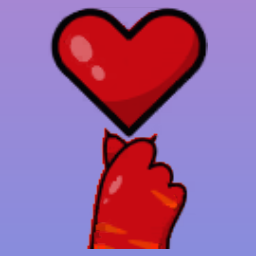
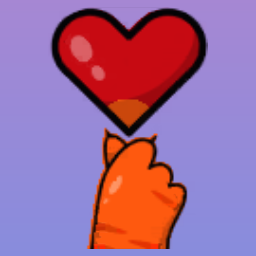
Tutorial Two Complete

Changed region(s): [[0.3438, 0.5, 0.7188, 1.0], [0.4062, 0.375, 0.5938, 0.5]]

diff --git a/Assets/CoreStates/Scripts/StateManager.cs b/Assets/CoreStates/Scripts/StateManager.cs
@@ -7,19 +7,21 @@ namespace Core.States
     public class StateManager : MonoBehaviour
     {
         [SerializeField] SOEvents ChangeBackgroundEvent;
-        [SerializeField] SOIntegerEvents ChangeStateEvent, DeActiveStateEvent;
+        [SerializeField] SOIntegerEvents ChangeStateEvent, DeactiveStateEvent, DestroyStateEvent;
         [SerializeField] GameState[] AllStates;
         [SerializeField] SOInterger MainMenuStateIndex, GamePlayStateIndex, LeveCompleteStateIndex;
 
         private void OnEnable()
         {
             ChangeStateEvent.EventHandler += ChangeState;
-            DeActiveStateEvent.EventHandler += DeActiveState;
+            DeactiveStateEvent.EventHandler += DeactiveState;
+            DestroyStateEvent.EventHandler += DestroyState;
         }
         private void OnDisable()
         {
             ChangeStateEvent.EventHandler -= ChangeState;
-            DeActiveStateEvent.EventHandler -= DeActiveState;
+            DeactiveStateEvent.EventHandler -= DeactiveState;
+            DestroyStateEvent.EventHandler -= DestroyState;
         }
 
         private void Start()
@@ -29,27 +31,32 @@ namespace Core.States
 
         void ChangeState(int stateIndex)
         {
-            AllStates[stateIndex].ActiveCurrentState(transform);
             if (stateIndex == MainMenuStateIndex.Value)
             {
                 ChangeBackgroundEvent.InvokeSOEvent();
-                for (int s = AllStates.Length - 1; s > MainMenuStateIndex.Value; s--)
+                for (int s = 0; s > AllStates.Length; s++)
                 {
-                    AllStates[s].DestroyCurrentState();
+                    AllStates[s].DestroyState();
                 }
             }
             else if (stateIndex == GamePlayStateIndex.Value)
             {
-                for (int s = 0; s < GamePlayStateIndex.Value; s++)
+                for (int s = 0; s < AllStates.Length; s++)
                 {
-                    AllStates[s].DestroyCurrentState();
+                    AllStates[s].DestroyState();
                 }
             }
+            AllStates[stateIndex].ActiveCurrentState(transform);
         }
 
-        void DeActiveState(int stateIndex)
+        void DeactiveState(int stateIndex)
         {
-            AllStates[stateIndex].DeActiveCurrentState();
+            AllStates[stateIndex].DeactiveState();
+        }
+
+        void DestroyState(int stateIndex)
+        {
+            AllStates[stateIndex].DestroyState();
         }
     }
 }

diff --git a/Assets/Complete/Scripts/CompleteScreen.cs b/Assets/Complete/Scripts/CompleteScreen.cs
@@ -15,14 +15,13 @@ namespace Core.Screen
     {
         [SerializeField] DBInt LevelIndex, LvlNum;
         [SerializeField] SOInterger LevelStars, CanPlay, MainMenuStateIndex, LevelMoves, DetailsApplied, GamePlayState;
-        [SerializeField] SOIntegerEvents SoundEffectEvent, ChangeStateEvent, DeActiveStatEvent;
+        [SerializeField] SOIntegerEvents SoundEffectEvent, ChangeStateEvent, DestroyStatEvent;
         [SerializeField] SOEvents DestroyLevelEvent;
         [SerializeField] SOAnChorMove ShowPanel;
         [SerializeField] GameObject Body;
         [SerializeField] RectTransform StarsObj, Painting;
         [SerializeField] Image[] StarsImg;
         [SerializeField] RawImage PaintingImg;
-        [SerializeField] Button NextButton;
         [SerializeField] TextMeshProUGUI LevelBonusText, StarsBonusText, DetailsBonusText, MovesBonusText, TotalBonusText;
         [SerializeField] Camera ScreenshotCamera;
         [SerializeField] RenderTexture TargetTexture;
@@ -32,19 +31,9 @@ namespace Core.Screen
         int _levelBonus = 50, _starsBonus = 100, _detailsBonus = 0, _totalBonus = 0, _tutorialLevels = 5;
         Coroutine _screenShotRotine;
 
-        private void OnEnable()
-        {
-            NextButton.onClick.AddListener(OnClickNext);
-        }
-
         private void Start()
         {
             _screenShotRotine = StartCoroutine(CaptureColoredArea());
-        }
-
-        private void OnDisable()
-        {
-            NextButton.onClick.RemoveListener(OnClickNext);
         }
 
         IEnumerator CaptureColoredArea()
@@ -70,7 +59,7 @@ namespace Core.Screen
             byte[] bytes = screenshot.EncodeToPNG();
             File.WriteAllBytes(filePath, bytes);
             yield return new WaitForSeconds(2.5f);
-            DeActiveStatEvent.InvokeSOEvent(GamePlayState.Value);
+            DestroyStatEvent.InvokeSOEvent(GamePlayState.Value);
             DestroyLevelEvent.InvokeSOEvent();
             ScreenshotCamera.gameObject.SetActive(true);
             ShowPanel.TargetObj = Body;
@@ -116,7 +105,7 @@ namespace Core.Screen
         }
 
 
-        void OnClickNext()
+        public void OnClickNext()
         {
             if (!_onceClicked)
             {

diff --git a/Assets/CoreStates/Scripts/GameState.cs b/Assets/CoreStates/Scripts/GameState.cs
@@ -21,12 +21,12 @@ namespace Core.States
             }
         }
 
-        public void DeActiveCurrentState()
+        public void DeactiveState()
         {
             _stateScreen.SetActive(false);
         }
 
-        public void DestroyCurrentState()
+        public void DestroyState()
         {
             if (_stateScreen != null)
                 Destroy(_stateScreen);
